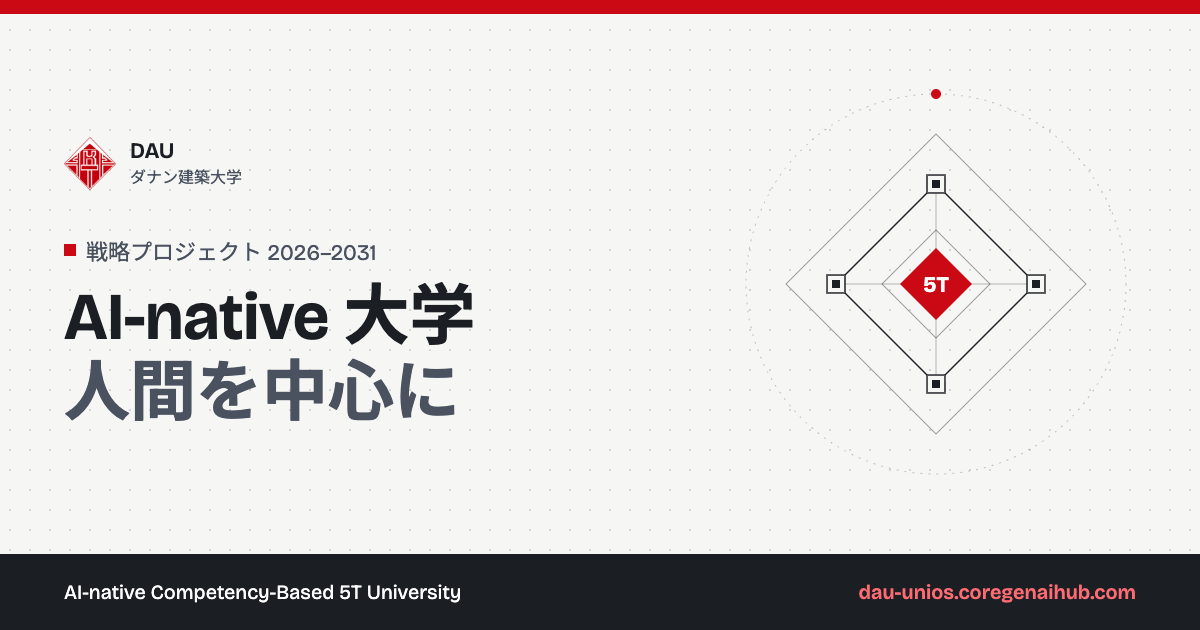
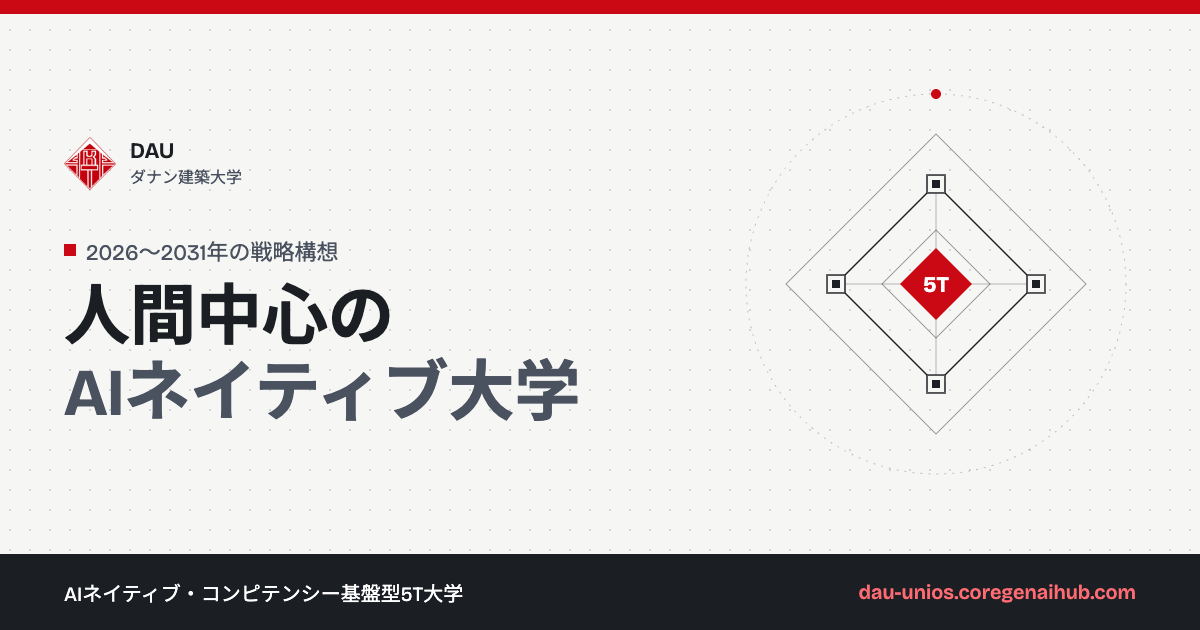
Align the 404 copy and regenerate share images

Changed region(s): [[0.0308, 0.4524, 0.4933, 0.6635], [0.0617, 0.3619, 0.3083, 0.4222], [0.0617, 0.9048, 0.4008, 0.9651]]

diff --git a/src/app/global-not-found.tsx b/src/app/global-not-found.tsx
@@ -10,8 +10,9 @@ export const metadata: Metadata = {
   title: "404 — Không tìm thấy trang | DAU AI-native University",
 };
 
-const copy: Record<Locale, { label: string; title: string; text: string; home: string; owner: string }> = {
+const copy: Record<Locale, { brand: string; label: string; title: string; text: string; home: string; owner: string }> = {
   vi: {
+    brand: "Đại học AI-native",
     label: "Lỗi 404",
     title: "Không tìm thấy trang",
     text: "Trang bạn tìm có thể đã được di chuyển, đổi tên hoặc chưa từng tồn tại. Mời bạn quay lại trang giới thiệu Đề án AI-native University.",
@@ -19,25 +20,28 @@ const copy: Record<Locale, { label: string; title: string; text: string; home: s
     owner: "Hệ thống này thuộc sở hữu của Trường Đại học Kiến trúc Đà Nẵng.",
   },
   en: {
+    brand: "AI-native University",
     label: "Error 404",
     title: "Page not found",
-    text: "The page you are looking for may have been moved, renamed or never existed. Head back to the AI-native University project page.",
+    text: "The page you are looking for may have been moved, renamed or never existed. Head back to the AI-native University Initiative page.",
     home: "Back to home",
     owner: "This system is owned by Danang Architecture University.",
   },
   ja: {
+    brand: "AIネイティブ大学",
     label: "エラー 404",
     title: "ページが見つかりません",
-    text: "お探しのページは移動・名称変更されたか、存在しない可能性があります。AI-native University プロジェクトのページへお戻りください。",
+    text: "お探しのページは移動・名称変更されたか、存在しない可能性があります。AIネイティブ大学構想のページへお戻りください。",
     home: "トップページへ",
-    owner: "本システムはダナン建築大学（Danang Architecture University）が所有しています。",
+    owner: "本システムはダナン建築大学が所有する。",
   },
   zh: {
+    brand: "AI原生大学",
     label: "错误 404",
     title: "页面未找到",
-    text: "您访问的页面可能已被移动、重命名或从未存在。请返回 AI-native University 项目页面。",
+    text: "您访问的页面可能已被移动、重命名或从未存在。请返回AI原生大学建设方案页面。",
     home: "返回首页",
-    owner: "本系统归岘港建筑大学（Danang Architecture University）所有。",
+    owner: "本系统归岘港建筑大学所有。",
   },
 };
 
@@ -108,7 +112,11 @@ export default function GlobalNotFound() {
               <Image src="/images/logo-dau.png" alt="DAU" width={44} height={45} priority />
               <span className="flex flex-col leading-tight">
                 <span className="text-lg font-semibold tracking-tight">DAU</span>
-                <span className="text-xs text-ink-soft">AI-native University</span>
+                {locales.map((l) => (
+                  <span key={l} data-l={l} className="text-xs text-ink-soft">
+                    {copy[l].brand}
+                  </span>
+                ))}
               </span>
             </a>
           </div>
